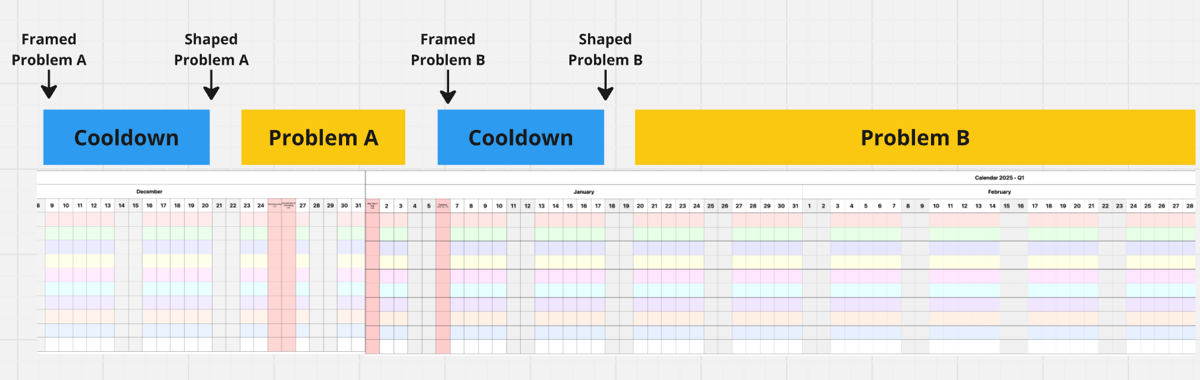
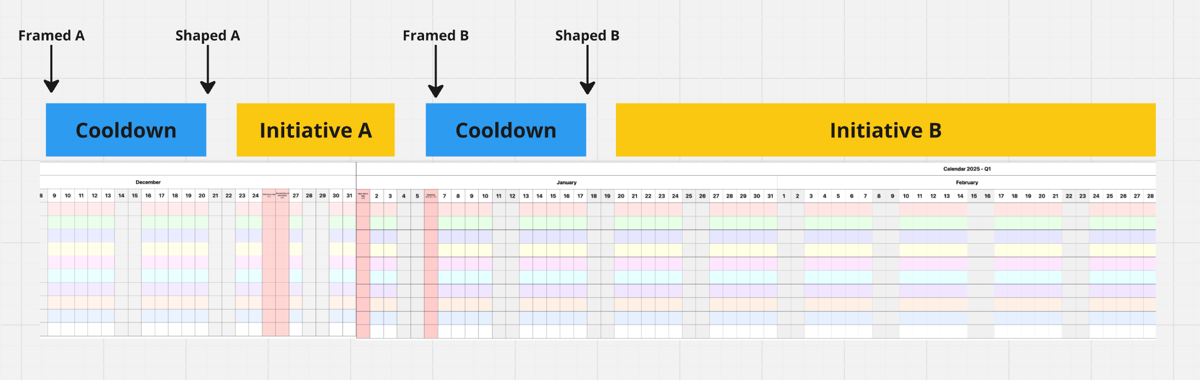
improved timeline section

Changed region(s): [[0.0, 0.0868, 1.0, 0.9263], [0.4625, 0.0579, 0.555, 0.1737], [0.3392, 0.0868, 0.4008, 0.1737]]

diff --git a/content/posts/2024-impact-appetite-tierlist/index.md b/content/posts/2024-impact-appetite-tierlist/index.md
@@ -1,6 +1,6 @@
 ---
 title: "Template: Impact-Appetite-Tierlist"
-date: 2024-12-06T14:07:45+01:00
+date: 2024-12-09T14:12:45+01:00
 image: matrix-full@1x.png
 ---
 
@@ -65,11 +65,9 @@ How much are we willing to commit to this?
 ### Create a short-term timeline, not a roadmap.
 
 ![](matrix-mapping@1x.png)
-After identifying high-impact problems and setting an initial appetite, the next step is to see how these priorities fit into the next 8–10 weeks. (You don't need to do more because further planning is obsolete anyway - this is just the reality)
+After identifying high-impact problems and setting an initial appetite, the next step was to see how these priorities fit into the next 8–10 weeks. (We don't do more than this, because further planning is obsolete anyway - Shape Up Principles.)
 
-The only other task we have is to define specific milestones to ensure the following topics are framed and shaped accordingly to meet the timeline.
-
-Only with [framing](https://www.feltpresence.com/framing/) and [shaping](https://basecamp.com/shapeup/1.1-chapter-02) at the right altitude is it possible to work with a fixed timebox.
+The only other task we have is to define specific milestones to ensure the following topics are [framed](https://www.feltpresence.com/framing/) and [shaped](https://basecamp.com/shapeup/1.1-chapter-02) accordingly to meet the timeline.
 
 ### Try it today: Use appetite instead of estimates for your roadmap.
 
